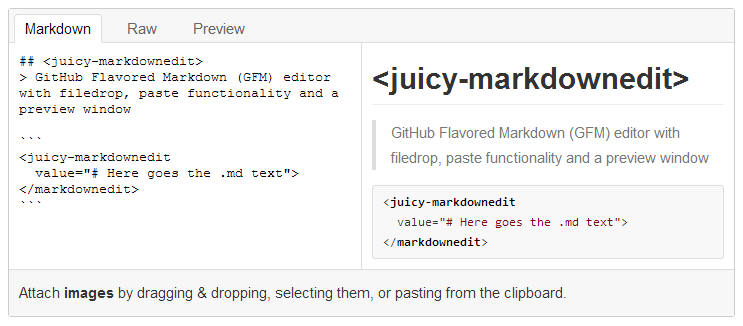
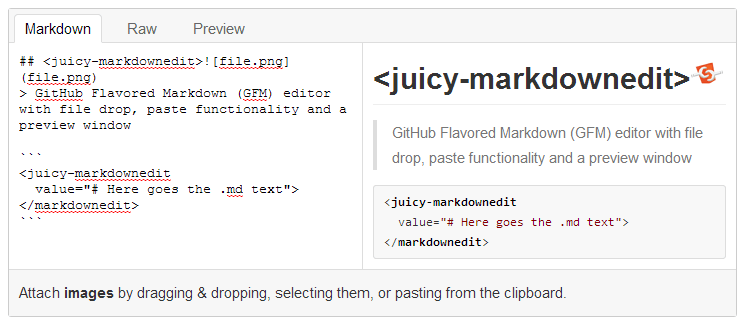
Add mock server for file drop in  demo

diff --git a/index.html b/index.html
@@ -18,6 +18,10 @@
 
     <!-- Importing Custom Elements -->
     <link rel="import" href="juicy-markdownedit.html">
+
+    <!-- Loading mock file host/server - needed only for demo -->
+    <script src="//cdnjs.cloudflare.com/ajax/libs/sinon.js/1.7.3/sinon.js"></script>
+    <script src="../juicy-markdown/test/mockServer.js"></script>
 </head>
 <body class="markdown-body">
 <a href="https://github.com/Juicy/juicy-markdownedit"><img style="position: absolute; top: 0; right: 0; border: 0; z-index: 9;" src="https://s3.amazonaws.com/github/ribbons/forkme_right_darkblue_121621.png" alt="Fork me on GitHub"></a>
@@ -27,7 +31,7 @@
 	</p>
     <!-- Using Custom Elements -->
     <juicy-markdownedit id="markdown" 
-        uploadurl="/api/blogapp/media" 
+        uploadurl="/storage/server/path" 
         placeholder="Enter markdown text" 
         footer="<p style='padding:10px;margin:0px'>Attach <strong>images</strong> by dragging &amp; dropping, selecting them, or pasting from the clipboard.</p>" 
         value="## <juicy-markdownedit>
